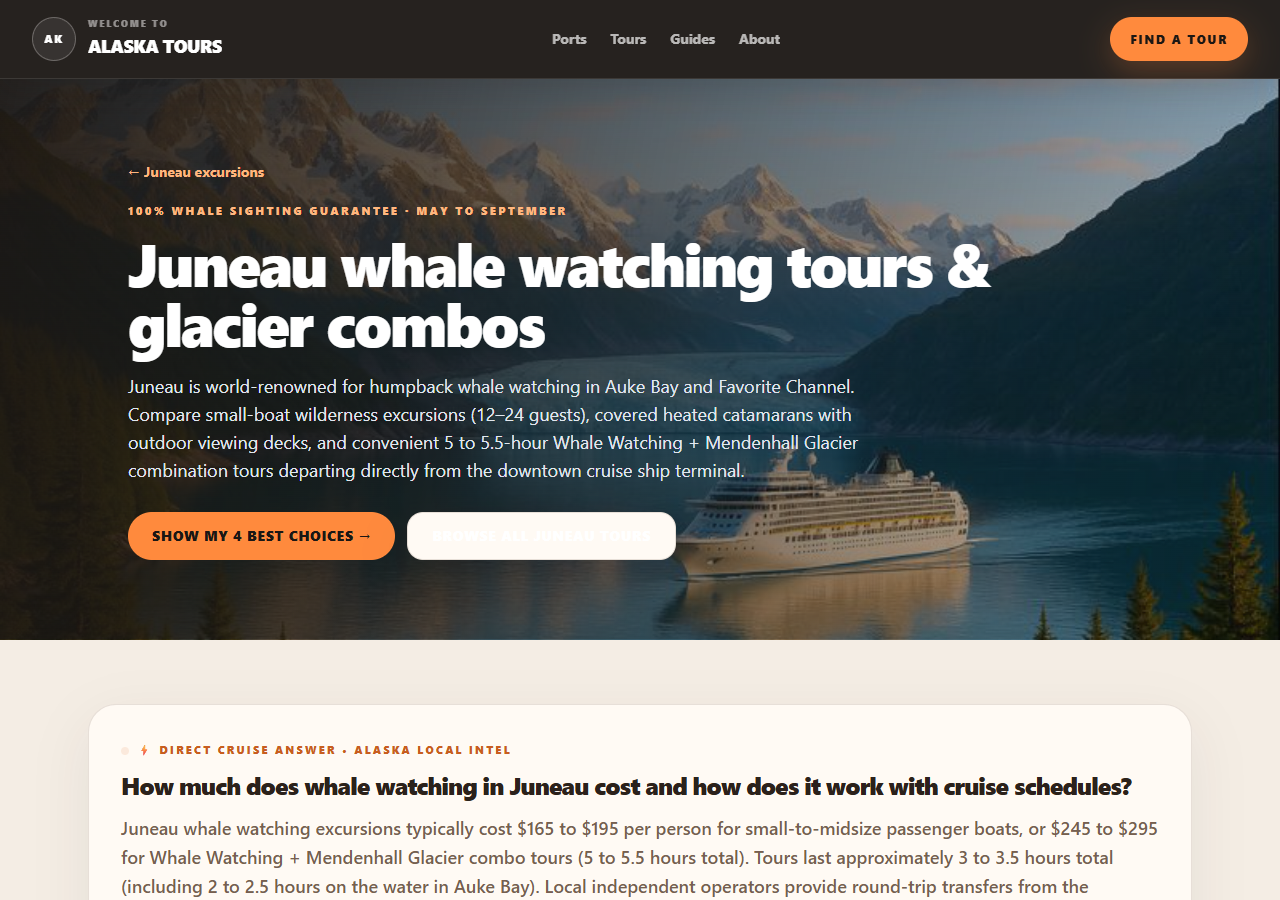
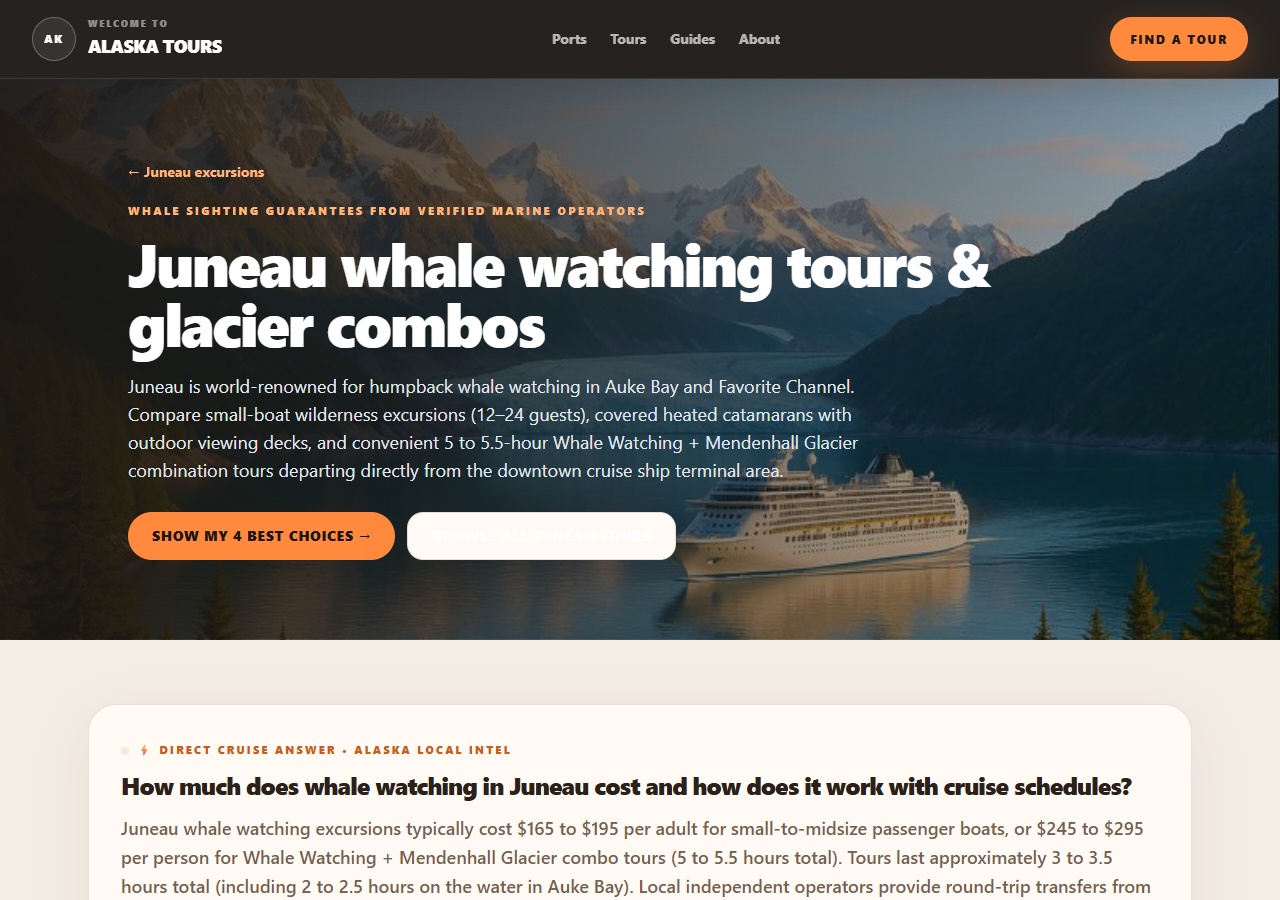
feat(wta): expand trust policies, dynamic 6-question booking FAQs, image transparency, and port metadata

Changed region(s): [[0.0938, 0.9022, 0.9062, 0.9956], [0.0938, 0.2178, 0.5, 0.2489]]

diff --git a/app/tours/[company]/[item]/page.tsx b/app/tours/[company]/[item]/page.tsx
@@ -194,7 +194,9 @@ export default async function TourDetailPage({
   const bestForText = getWhoItIsBestFor(safeTour.title, categoryName);
   const skipText = getWhoShouldSkip(safeTour.title, activityLevel, ageConstraint);
 
-  const heroSrc = safeTour.image && String(safeTour.image).trim() ? safeTour.image : "/hero/juneau.jpg";
+  const hasRealOperatorImage = Boolean(safeTour.image && String(safeTour.image).trim());
+  const fallbackHero = safeTour.port === "ketchikan" ? "/hero/ketchikan.png" : safeTour.port === "skagway" ? "/hero/skagway.jpg" : "/hero/juneau.jpg";
+  const heroSrc = hasRealOperatorImage ? safeTour.image! : fallbackHero;
   let description = cleanTourDescription(safeTour.description, "Alaska excursion.");
   if (isGenericDescription(description)) {
     description = "Experience a premier excursion during your port day in Alaska. Review live departures and availability below to secure your booking.";
@@ -344,31 +346,53 @@ export default async function TourDetailPage({
     }
   } : null;
 
+  const isHeliOrAir = /helicopter|flight|air|seaplane|floatplane/i.test(safeTour.title);
+  const isBoat = /whale|boat|catamaran|marine|fishing|charter|cruise|water/i.test(safeTour.title);
+  const isKartOrScooter = /kart|scooter|utv|atv|jeep/i.test(safeTour.title);
+  const isPrivate = /private|charter/i.test(safeTour.title) || (safeTour.fromPrice && safeTour.fromPrice.toLowerCase().includes("private"));
+
   const renderedFaqs = [
     {
-      question: "Will this fit my cruise ship schedule?",
-      answer: "Excursion timing compatibility depends directly on your cruise ship's port arrival and departure window. Ensure the tour start time leaves a return safety buffer before your scheduled all-aboard time."
+      question: `Does this departure fit my cruise ship's port window in ${portName}?`,
+      answer: `Excursion timing compatibility depends directly on your ship's arrival and all-aboard times. We recommend a minimum ${isHeliOrAir ? "60-minute" : "45-minute"} return safety buffer between the tour return and your ship's scheduled all-aboard time. Always confirm your ship's exact port hours before booking.`,
     },
     {
-      question: "How much return buffer should I leave?",
-      answer: "We recommend a minimum 45-minute return safety buffer for standard excursions and 60 minutes for high-altitude glacier landings or flightseeing to allow for weather checks and transit logistics."
+      question: `Where do we meet in ${portName}, and what if my ship docks at an outer berth?`,
+      answer:
+        safeTour.port === "juneau"
+          ? "Departures stage near the Mt. Roberts Tramway parking lot (490 S Franklin St), an easy 5-minute flat walk from downtown docks (Franklin, CT, and IVF berths). If your ship docks at the south AJ Dock, take the $5 port shuttle directly to the tram lot for your tour check-in."
+          : safeTour.port === "ketchikan"
+          ? "Tours meet along the downtown Ketchikan waterfront right near Berths 1, 2, and 3. If your ship berths at Ward Cove (Berth 4, 7 miles north), allow 15 to 20 minutes to ride the port shuttle to the downtown meeting point before tour check-in."
+          : "Departures stage in downtown Skagway along 2nd Avenue or at the Small Boat Harbor, a level 5 to 10-minute walk from the Railroad Dock, Broadway Dock, and Ore Dock.",
     },
     {
-      question: "What should I confirm before booking?",
-      answer: "Always confirm your ship's exact all-aboard time (typically 30 minutes before departure) and check the tour duration against your port day calendar before final checkout."
+      question: "How much walking, climbing, or boarding assistance is involved?",
+      answer:
+        isHeliOrAir
+          ? "Moderate mobility is required. Guests must climb 2–3 steep steps into the aircraft with staff assistance. Glacier landings involve walking 200–400 yards over natural ice; sturdy overboots or crampons are fitted on site."
+          : isBoat
+          ? "Low physical exertion. Boarding is via dock gangway ramps. Enclosed heated cabins feature comfortable seating and wide outdoor viewing decks. Folding wheelchairs can be stowed on board."
+          : isKartOrScooter
+          ? "Active physical participation. Operators must hold a valid driver's license. Riding involves vibration and sitting upright over off-road or gravel surfaces. Full protective helmets are supplied."
+          : "Standard walking at an easy to moderate pace. Any necessary equipment, safety gear, or walking sticks are provided by the operator.",
     },
     {
-      question: "Is this good for families?",
-      answer: "Yes, many tours accommodate all ages. However, glacier hiking and trekking excursions may have minimum age restrictions (such as 8+ or 12+) due to gear outfitting constraints."
+      question: "What age, weight, or equipment requirements apply?",
+      answer:
+        isHeliOrAir
+          ? `FAA flight safety regulations require passenger weight verification for aircraft balance. Guests weighing 250 lbs or more may require an adjacent seat or weight surcharge in accordance with FAA and operator guidelines. ${ageConstraint ? `Age policy: ${ageConstraint}.` : "Children of all ages are welcome."}`
+          : `${ageConstraint ? `Age policy: ${ageConstraint}.` : "All ages are welcome."} Dress in warm layers with a waterproof outer jacket and flat, comfortable walking shoes. Specialized gear (neoprene overboots, spray skirts, or flotation suits) is furnished by ${operatorName}.`,
     },
     {
-      question: "What happens if weather affects flightseeing?",
-      answer: "Safety is the operator's top priority. If your flightseeing tour is cancelled due to weather, you will receive a full refund. We recommend booking flights earlier in the day when weather is typically most stable."
+      question: `What happens if mountain weather cancels the tour or my ship misses port?`,
+      answer: `Safety is paramount in Southeast Alaska. If severe weather, heavy fog, or high winds prevent safe operations, ${operatorName} issues a 100% full refund with zero cancellation penalty. If your cruise ship cancels the port call or bypasses ${portName} due to mechanical delays or weather, your booking is fully refunded upon verification.`,
     },
     {
-      question: "Where do I confirm exact departure details?",
-      answer: "Your booking confirmation email will contain the operator's local office contact number, exact check-in address at the port, and departure instructions."
-    }
+      question: "Is the listed price per person or for the entire group?",
+      answer: isPrivate
+        ? "This is a private charter listing. The price covers your entire private party up to the vessel or vehicle's maximum licensed capacity, with dedicated exclusive guide and captain service."
+        : `The price (${safeTour.fromPrice || "listed starting rate"}) is per person (or per adult where age tiers apply). It includes all required local port staging, certified guide service, and gear. Taxes and processing are transparently itemized with zero surprise fees at checkout.`,
+    },
   ];
 
   const faqSchema = {
@@ -455,13 +479,18 @@ export default async function TourDetailPage({
             <div className="relative aspect-[16/10] w-full overflow-hidden rounded-3xl border border-stone-200 shadow-md">
               <Image
                 src={heroSrc}
-                alt={safeTour.title}
+                alt={`${safeTour.title} - ${operatorName} (${portName}, Alaska)`}
                 fill
                 priority
                 unoptimized
                 className="object-cover"
                 sizes="(max-w-7xl) 100vw, 1200px"
               />
+              {!hasRealOperatorImage && (
+                <div className="absolute bottom-3 left-3 rounded-lg bg-black/75 px-3 py-1.5 text-[11px] font-medium text-white backdrop-blur-sm">
+                  📍 Regional preview shown · Verified operator itinerary below
+                </div>
+              )}
             </div>
 
             {/* Thumbnails Gallery */}
@@ -530,23 +559,27 @@ export default async function TourDetailPage({
               </div>
             </div>
 
-            <div className="rounded-2xl border border-sky-100 bg-sky-50/50 p-4 text-[11px] text-slate-700 space-y-2.5">
-              <span className="font-black text-slate-900 uppercase tracking-wider text-[9px] block">WTA Booking Guarantees</span>
-              <div className="flex gap-2">
-                <span>⚡</span>
-                <p className="leading-normal"><strong>Live Inventory:</strong> Calendars connect directly to operator departure schedules.</p>
-              </div>
+            <div className="rounded-2xl border border-sky-100 bg-sky-50/50 p-4 text-[11px] text-slate-700 space-y-3">
+              <span className="font-black text-slate-900 uppercase tracking-wider text-[9px] block">Verified Booking Terms</span>
               <div className="flex gap-2">
                 <span>🏔</span>
-                <p className="leading-normal"><strong>Direct Booking:</strong> Placed directly with verified Alaskan operators.</p>
-              </div>
-              <div className="flex gap-2">
-                <span>🛡</span>
-                <p className="leading-normal"><strong>Safety Buffer:</strong> Enforces 45+ minute return margins before ship departs.</p>
+                <p className="leading-normal"><strong>Operator:</strong> Operated directly by <strong>{operatorName}</strong> in {portName}.</p>
               </div>
               <div className="flex gap-2">
                 <span>💳</span>
-                <p className="leading-normal"><strong>Secure Stripe:</strong> Protected checkouts with instant confirmations.</p>
+                <p className="leading-normal"><strong>Payment & Voucher:</strong> Billed securely by Welcome to Alaska Tours via Stripe. Instant confirmation voucher issued.</p>
+              </div>
+              <div className="flex gap-2">
+                <span>📍</span>
+                <p className="leading-normal"><strong>Port Pickup:</strong> Staged for {portName} cruise berths (including shuttle transit guidance for outer docks).</p>
+              </div>
+              <div className="flex gap-2">
+                <span>🛡</span>
+                <p className="leading-normal"><strong>Cancellation Protection:</strong> 100% refund if weather cancels the activity or if your ship misses port.</p>
+              </div>
+              <div className="flex gap-2">
+                <span>⏱</span>
+                <p className="leading-normal"><strong>Safety Margin:</strong> {bufferMinutes}-minute return cushion enforced before ship all-aboard.</p>
               </div>
             </div>
           </div>

diff --git a/app/ports/[slug]/page.tsx b/app/ports/[slug]/page.tsx
@@ -15,18 +15,18 @@ const APPROVED_PORTS = ["juneau", "skagway", "ketchikan"];
 const PORT_INFO: Record<string, { title: string; description: string; problem: string }> = {
   juneau: {
     title: "Juneau Shore Excursions: Whale Watching, Mendenhall & Helicopter Tours (2026)",
-    description: "Compare Juneau whale watching, Mendenhall Glacier combos, helicopter glacier treks, dog sledding, and fishing charters. 100% weather refund and cruise dock pickup.",
-    problem: "Juneau has Alaska's largest excursion menu. The key is coordinating signature highlights like whale watching and Mendenhall Glacier with your ship's specific port window and guaranteed return timing.",
+    description: "Compare Juneau whale watching, Mendenhall Glacier combos, helicopter glacier treks, dog sledding, and fishing charters. Operator weather refunds and cruise dock shuttles.",
+    problem: "Juneau has Alaska's largest excursion menu. The key is coordinating signature highlights like whale watching and Mendenhall Glacier with your ship's specific port window and a 45–60 minute return safety buffer.",
   },
   skagway: {
     title: "Skagway Shore Excursions: Scooters, Gold Rush, Glacier Flights & Dog Sleds (2026)",
-    description: "Compare Skagway shore excursions: Skagway Scooters Gold Rush adventures, electric rentals to Dyea, TEMSCO helicopter glacier landings, Liarsville, and dog sledding.",
-    problem: "Skagway offers a mix of structured mountain adventures and self-directed explorations. The best choice balances your group's desired activity level with safe all-aboard return buffers.",
+    description: "Compare Skagway shore excursions: Skagway Scooters Gold Rush adventures, electric rentals to Dyea, TEMSCO helicopter glacier landings, Liarsville, and dog sledding. Verified ship timing buffers.",
+    problem: "Skagway offers a mix of structured mountain adventures and self-directed explorations. The best choice balances your group's desired activity level with safe 45+ minute all-aboard return buffers.",
   },
   ketchikan: {
     title: "Ketchikan Shore Excursions: Adventure Karts, Kayaking, Bears & Misty Fjords (2026)",
-    description: "Compare Ketchikan shore excursions: Adventure Kart Expeditions, Ketchikan Kayak Co sea kayaking, Herring Cove bear viewing, Misty Fjords floatplanes, and Duck tours.",
-    problem: "Ketchikan offers everything from rugged rainforest kart tracks and sea kayaking to tranquil Misty Fjords seaplanes. Match the right excursion to your ship's berth location (Berths 1–4 vs. Ward Cove).",
+    description: "Compare Ketchikan shore excursions: Adventure Kart Expeditions, Ketchikan Kayak Co sea kayaking, Herring Cove bear viewing, Misty Fjords floatplanes, and Duck tours. Ward Cove and downtown berth logistics.",
+    problem: "Ketchikan offers everything from rugged rainforest kart tracks and sea kayaking to tranquil Misty Fjords seaplanes. Match the right excursion to your ship's berth location (Berths 1–4 vs. Ward Cove shuttle transfer).",
   },
 };
 

diff --git a/app/categories/[slug]/page.tsx b/app/categories/[slug]/page.tsx
@@ -46,7 +46,11 @@ const CATEGORY_CONFIGS: Record<string, CategoryConfig> = {
     metaDescription: "Compare Juneau helicopter tour prices, glacier landings on Herbert and Norris Glaciers, guided ice walks, and glacier dog sledding with 100% weather refunds.",
     intro: "Experience the Juneau Icefield from the air. Compare scenic glacier landing flights, guided crampon ice walks (NorthStar / TEMSCO style), and helicopter dog sledding camps departing with cruise dock transfers.",
     matchFilter: (tour) =>
-      tour.port === "juneau" && (tour.category === "Air Tours" || has(tour, "helicopter")),
+      tour.port === "juneau" &&
+      (tour.category === "Air Tours" || has(tour, "helicopter")) &&
+      !has(tour, "summer camp") &&
+      !has(tour, "wheeled cart") &&
+      tour.company !== "temsco-summercamp-juneau",
   },
   "glacier-tours": {
     title: "Glacier Tours",

diff --git a/app/llms.txt/route.ts b/app/llms.txt/route.ts
@@ -5,7 +5,7 @@ DCC ID: dcc:site:welcome-to-alaska-tours
 DCC truth record: https://www.destinationcommandcenter.com/api/public/truth-feed?id=welcome-to-alaska-tours
 Portfolio graph: https://www.destinationcommandcenter.com/api/public/portfolio-feed
 Agent contract: https://www.welcometoalaskatours.com/agent.json
-Last verified: 2026-08-24
+Last verified: 2026-09-29
 
 Welcome to Alaska Tours is an Alaska excursion shopping property with published excursion inventory, tour calendars and site checkout.
 

diff --git a/app/agent.json/route.ts b/app/agent.json/route.ts
@@ -2,7 +2,7 @@ const AGENT = {
   spec: "dcc-site-contract",
   version: "1.0",
   dcc_id: "dcc:site:welcome-to-alaska-tours",
-  schema_version: "2026-08-24",
+  schema_version: "2026-09-29",
   site: {
     id: "welcome-to-alaska-tours",
     name: "Welcome to Alaska Tours",
@@ -12,7 +12,7 @@ const AGENT = {
   },
   status: {
     state: "active",
-    last_verified: "2026-08-24",
+    last_verified: "2026-09-29",
   },
   authority: [
     "excursion_catalog",
